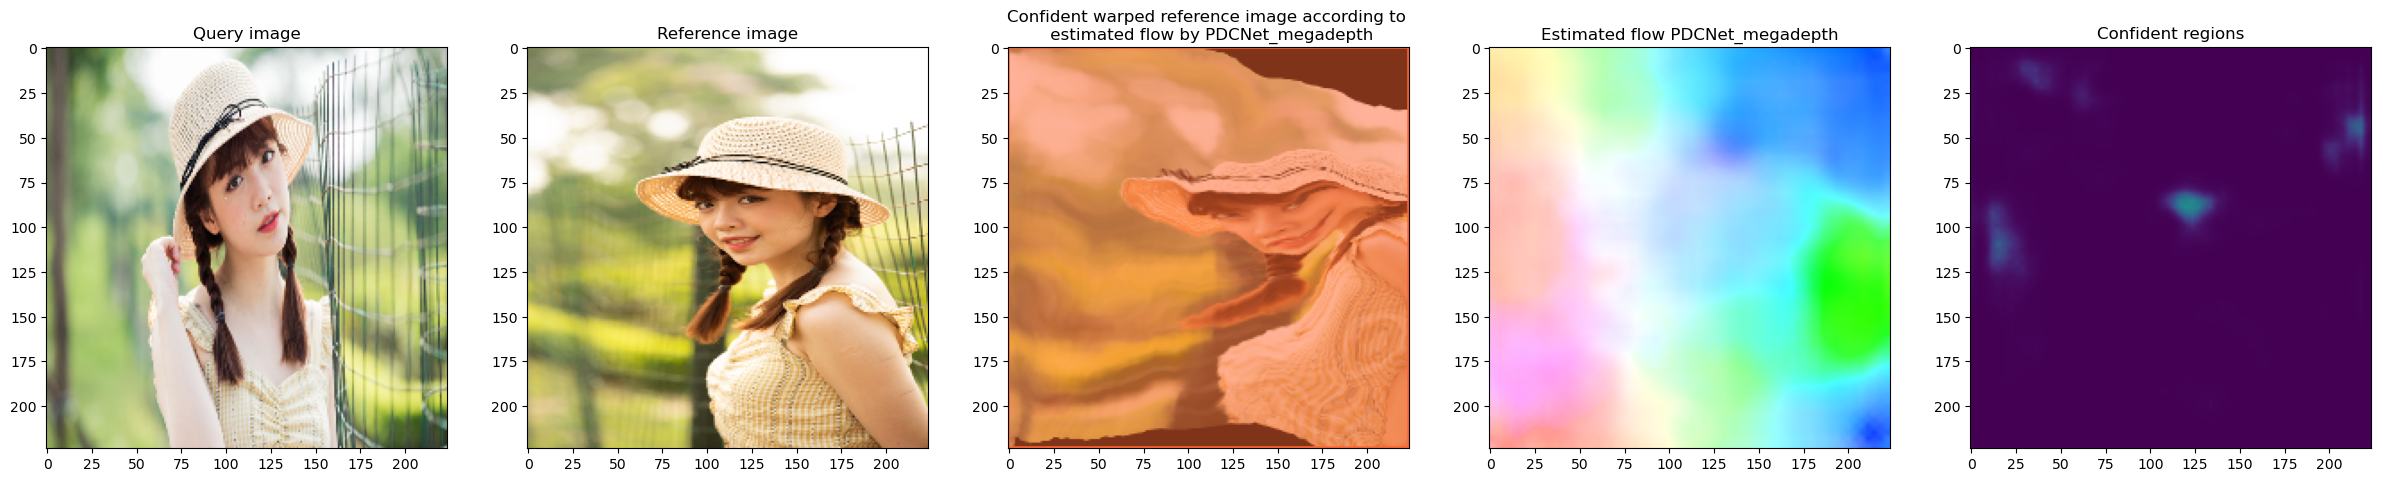
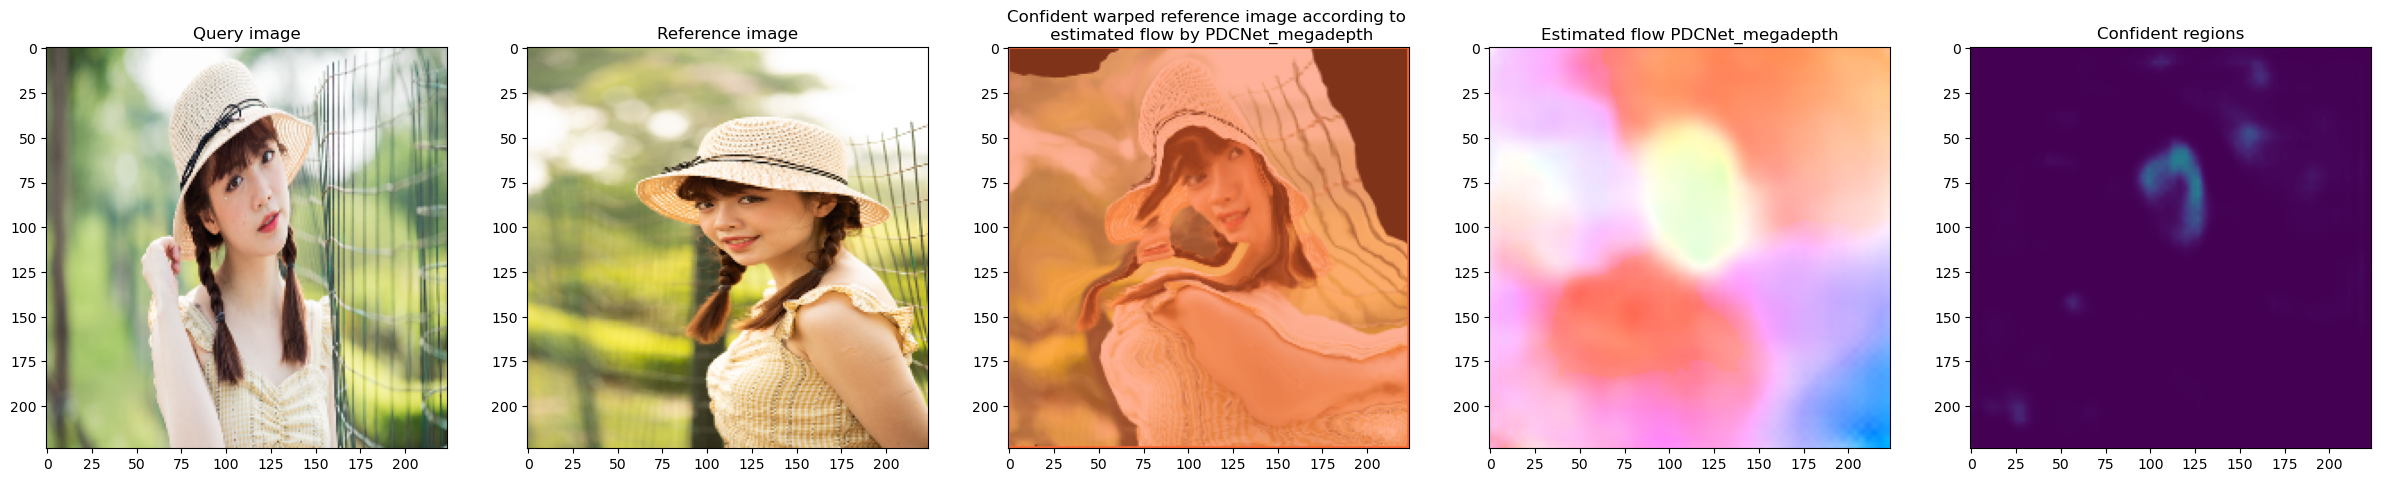
save wrapped reference img

diff --git a/test_models.py b/test_models.py
@@ -56,19 +56,21 @@ def test_model_on_image_pair(args, query_image, reference_image):
             if args.flipping_condition:
                 raise NotImplementedError('No flipping condition with PDC-Net for now')
 
-            estimated_flow, uncertainty_components = network.estimate_flow_and_confidence_map(query_image_,
-                                                                                              reference_image_,
+            # estimated_flow, uncertainty_components = network.estimate_flow_and_confidence_map(query_image_,
+            #                                                                                   reference_image_,
+            #                                                                                   mode='channel_first')
+            print('hello :)')
+            estimated_flow, uncertainty_components = network.estimate_flow_and_confidence_map(reference_image_,
+                                                                                              query_image_,
                                                                                               mode='channel_first')
             confidence_map = uncertainty_components['p_r'].squeeze().detach().cpu().numpy()
         else:
             if args.flipping_condition and 'GLUNet' in args.model:
-                # estimated_flow = network.estimate_flow_with_flipping_condition(query_image_, reference_image_,
-                #                                                                mode='channel_first')
-                estimated_flow = network.estimate_flow_with_flipping_condition(reference_image_, query_image_,
+                estimated_flow = network.estimate_flow_with_flipping_condition(query_image_, reference_image_,
                                                                                mode='channel_first')
             else:
-                # estimated_flow = network.estimate_flow(query_image_, reference_image_, mode='channel_first')
-                estimated_flow = network.estimate_flow(reference_image_, query_image_, mode='channel_first')
+                estimated_flow = network.estimate_flow(query_image_, reference_image_, mode='channel_first')
+                # estimated_flow = network.estimate_flow(reference_image_, query_image_, mode='channel_first')
         estimated_flow_numpy = estimated_flow.squeeze().permute(1, 2, 0).cpu().numpy()
         warped_query_image = remap_using_flow_fields(query_image, estimated_flow.squeeze()[0].cpu().numpy(),
                                                      estimated_flow.squeeze()[1].cpu().numpy()).astype(np.uint8)
